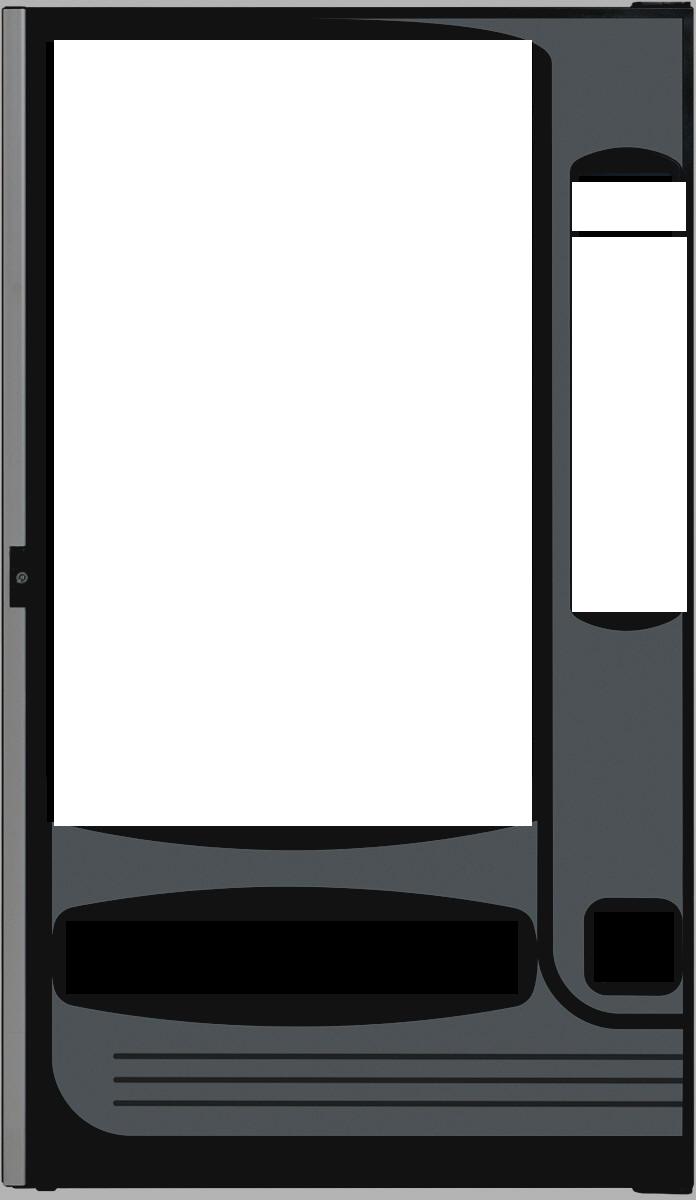
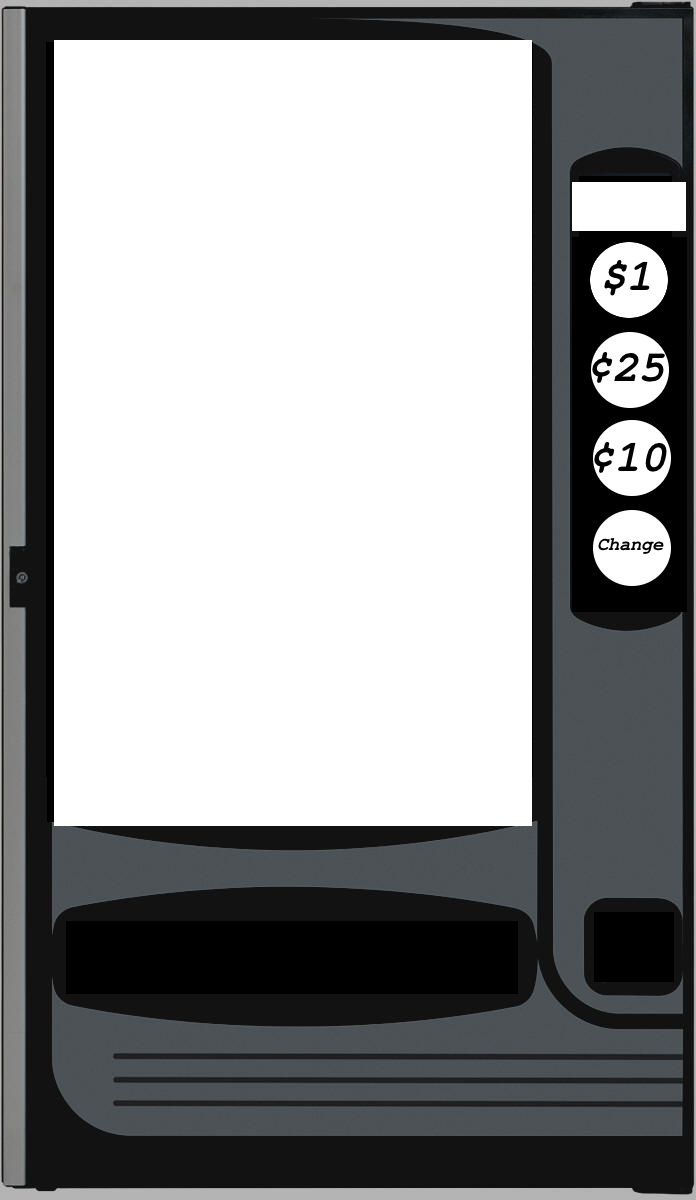
4th commit, key pad and the change buttons on the vending machine now work

Changed region(s): [[0.8147, 0.185, 0.9957, 0.5242]]

diff --git a/keyPadActionListener.js b/keyPadActionListener.js
@@ -1,4 +1,39 @@
-document.getElementById("keypadimg").onclick = function(){
-    alert("working");
+//var padElements= document.getElementById("keypadTable").attributes.length;
+//console.log("elements"+padElements[0]);
+var dollar,_25cents,_10cents,change;
+var totalAmount=0;
+dollar   = document.getElementById("1_dollar");
+_25cents = document.getElementById("25_cent");
+_10cents = document.getElementById("10_cent");
+change   = document.getElementById("change");
+
+
+dollar.onclick = function (){
+    updateTotalAmmount(1);
 };
 
+
+_25cents.onclick = function (){
+    updateTotalAmmount(.25);
+};
+
+
+_10cents.onclick = function (){
+    updateTotalAmmount(.10);
+};
+
+change.onclick = function (){
+    updateTotalAmmount("clear");
+};
+
+
+function updateTotalAmmount(value){
+    if(value!="clear"){
+    totalAmount+=value;
+    document.getElementById("curDisp").innerHTML=Math.round(totalAmount*100)/100;
+    }else if(value=="clear"){
+        alert("your total change is : $"+Math.round(totalAmount*100)/100);
+        document.getElementById("curDisp").innerHTML=0.00;
+        totalAmount=0;
+    }
+}

diff --git a/makeDyamicKeyPad.js b/makeDyamicKeyPad.js
@@ -1,0 +1,20 @@
+var rows = 4;
+
+var table = document.getElementById("keypadTable");
+var temptr,temptd;
+for(var i =0;i<rows;i++){
+    temptr = document.createElement("tr");
+    temptd = document.createElement("td");
+    if(i==0){
+        temptd.id="1_dollar";
+    }else if(i==2){
+        temptd.id="25_cent";
+    }else if(i==3){
+        temptd.id="10_cent";
+    }
+    else {
+        temptd.id="change";
+    }
+    table.appendChild(temptr);
+    temptr.appendChild(temptd);
+}

diff --git a/makeDynamicKeyPad.js b/makeDynamicKeyPad.js
@@ -1,0 +1,20 @@
+var rows = 4;
+
+var table = document.getElementById("keypadTable");
+var temptr,temptd;
+for(var i =0;i<rows;i++){
+    temptr = document.createElement("tr");
+    temptd = document.createElement("td");
+    if(i==0){
+        temptd.id="1_dollar";
+    }else if(i==1){
+        temptd.id="25_cent";
+    }else if(i==2){
+        temptd.id="10_cent";
+    }
+    else {
+        temptd.id="change";
+    }
+    table.appendChild(temptr);
+    temptr.appendChild(temptd);
+}
